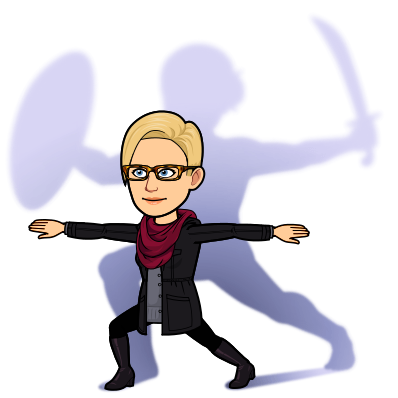
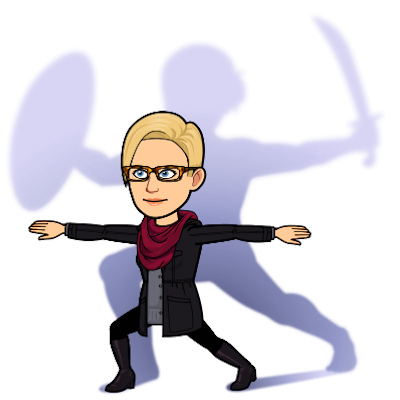
trying to make image squish

diff --git a/index.html b/index.html
@@ -1,23 +1,27 @@
 <!DOCTYPE html>
 <html>
+
 <head>
-	<title>Responsive Profile Site</title>
-	<meta name="viewport" content="width=device-width, initial-scale=1.0">
-	<link href="https://maxcdn.bootstrapcdn.com/font-awesome/4.7.0/css/font-awesome.min.css" rel="stylesheet" integrity="sha384-wvfXpqpZZVQGK6TAh5PVlGOfQNHSoD2xbE+QkPxCAFlNEevoEH3Sl0sibVcOQVnN" crossorigin="anonymous">
-	<link rel="stylesheet" type="text/css" href="styles.css">
+    <title>Responsive Profile Site</title>
+    <meta name="viewport" content="width=device-width, initial-scale=1.0">
+    <link href="https://maxcdn.bootstrapcdn.com/font-awesome/4.7.0/css/font-awesome.min.css" rel="stylesheet" integrity="sha384-wvfXpqpZZVQGK6TAh5PVlGOfQNHSoD2xbE+QkPxCAFlNEevoEH3Sl0sibVcOQVnN" crossorigin="anonymous">
+    <link rel="stylesheet" type="text/css" href="styles.css">
 </head>
+
 <body>
-	<div class="header">
-		<div class="item item-1">Logo</div>
-		<div class="item item-2">Getting started for free</div>
-		<div class="item item-3">Features</div>
-		<div class="item item-4">Pricing</div>
-		<div class="item item-5">Log in</div>
-	</div>
-	<div class="content">
-		<img class="img" src="bitmoji-ninja.png" alt="Bitmoji image of author">
-		<div class="right-content">
-			<div class="top-right">
+    <div class="header">
+        <div class="item item-1">Logo</div>
+        <div class="item item-2">Getting started for free</div>
+        <div class="item item-3">Features</div>
+        <div class="item item-4">Pricing</div>
+        <div class="item item-5">Log in</div>
+    </div>
+    <div class="content">
+        <div class="left-content">
+        <img class="responsive" src="bitmoji-ninja.png" alt="Bitmoji image of author" width="500" height="500">
+        </div>
+        <div class="right-content">
+            <div class="top-right">
                 <p>Amy Gregory</p>
                 <p>Spanish Teacher, Health Coach, and Coding Ninja</p>
                 <a class="button" target="_blank" href="https://wellnessfromscratch.me/">
@@ -55,11 +59,12 @@
                     <a class="icon" href="https://stackoverflow.com/users/10985856/aegreg"><i class="fa fa-stack-overflow fa-2x" aria-hidden="true"></i></a>
                 </div>
             </div>
-		</div>
-		<footer>
+        </div>
+        <footer>
             <p>Get a page and domain with your name.</p>
             <a id="footer" class="button" target="_blank" href="https://wellnessfromscratch.me/">Get started for free.</a>
         </footer>
-	</div>
+    </div>
 </body>
+
 </html>

diff --git a/styles.css b/styles.css
@@ -31,18 +31,27 @@ body {
     flex-direction: row;
     width: 100vw;
 }
-
-.img {
-    /*width: 41%;*/
-    height: 80vh;
-    float: left;
-   	flex: 2 1 auto;
+.left-content {
+    display: flex;
+    float:left;
+    width: auto;
+    height: auto;
+    padding: 1em;
+    justify-content: center;
+    align-items: center;
+    /*background-image: url(bitmoji-ninja.png);*/
+}
+.responsive {
+  width: 100%;
+  max-width: 400px;
+  height: auto;
+  float:left;
 }
 
 .right-content {
 	display: flex;
 	flex-direction: column;
-	flex:1 3 auto;
+	/*flex:1 3 auto;*/
     /*border: 1px solid black;*/
     margin-right:0em;
     padding: 1em 2.9em 2.5em 2.9em;
@@ -144,10 +153,13 @@ a#footer.button {
 /* tablet landscape */
 @media screen and (max-width:800px) (orientation:landscape) {
     .container {
+        display: block;
         flex-direction: row;
+        justify-content: center;
     }
-    .img {
-    	justify-content: center;
+    /*img {
+        background-image:url(bitmoji-ninja2.png);
+    }*/
     }
 }
 /*tablet portrait*/
@@ -155,6 +167,7 @@ a#footer.button {
     .container {
     	display: block;
         flex-direction: column;
+        justify-content: center;
     }
 }
 /* phone */
@@ -162,5 +175,9 @@ a#footer.button {
     .container {
         display: block;
         flex-direction: column;
+        justify-content: center;
     }
+    /*img {
+        background-image: url(bitmoji-ninja3.png);
+    }*/
 }
